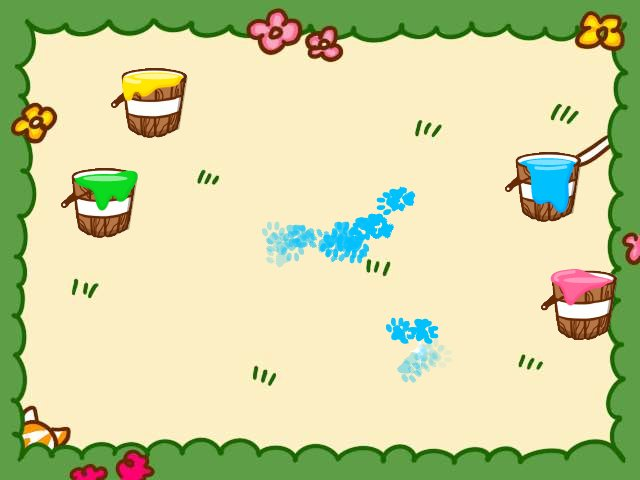
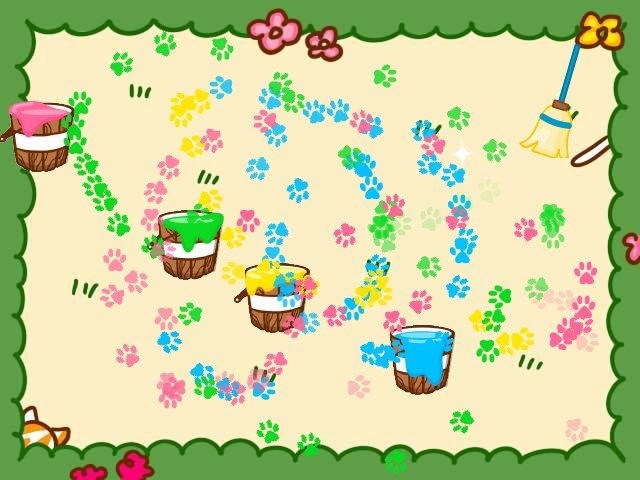
update

diff --git a/DRAWING/footstep_5_camera_sound.py b/DRAWING/footstep_5_camera_sound.py
@@ -5,7 +5,7 @@ import cv2 as cv
 import random
 from pygame.locals import *
 
-cap = cv.VideoCapture('6.mp4')
+cap = cv.VideoCapture(0)
 cap.set(3,640)
 cap.set(4,480)
 
@@ -13,7 +13,7 @@ cap.set(4,480)
 pygame.init()
 pygame.mixer.init()
 pygame.mixer.pre_init(44100,-16,2,512)
-screen = pygame.display.set_mode((640, 480),FULLSCREEN | HWSURFACE | DOUBLEBUF)
+screen = pygame.display.set_mode((640, 480), DOUBLEBUF)
 clock = pygame.time.Clock()
 
 #blit with opacity
@@ -56,6 +56,7 @@ def drawObject(animal, XY, opacity):
 #blink=pygame.image.load('blink.png')
 #blink_opacity=100
 flag=1
+broom_flag=0
 
 # PAINT IMG
 guide1=pygame.transform.scale(imgLoad('guide_1'),(500,120))
@@ -126,7 +127,7 @@ bucket_s=(380,300)
 skyblue=(450,300)
 pink=(650,300)
 bucket_p=(580,300)
-broom=(750,100)
+broom=(550,100)
 
 distance=40
 
@@ -166,12 +167,12 @@ while not done:
         continue
 
     img = cv.resize(img, (640,480))
-    points = detect.hough_detect(img)
+    points = pygame.mouse.get_pos()
     
     #cv.imshow('result', img)
     # if person head is found
     if type(points) is tuple:
-        pos_now = (points[0]*1.3-60, points[1]*1.3-60)
+        pos_now = points
 
     # if user goes out of the screen, change animal
     if not(0 < pos_now[0] < 640 and 0 < pos_now[1] < 480): 
@@ -183,34 +184,50 @@ while not done:
         # check if user collided to buckets
     if check_collision(bucket_y,pos_now,distance):
         spill_y+=1
-    elif check_collision(bucket_g,pos_now,distance):
-        spill_g+=1
-    elif check_collision(bucket_s,pos_now,distance):
-        spill_s+=1
-    elif check_collision(bucket_p,pos_now,distance):
-        spill_p+=1
-
-        # check if user collided to spilled paint
-    if check_collision(yellow,pos_now,distance):
         if spill_y!=0:
             color_now='_y'
             time=1
             opacity_now=300
-    elif check_collision(green,pos_now,distance):
+    elif check_collision(bucket_g,pos_now,distance):
+        spill_g+=1
         if spill_g!=0:
             color_now='_g'
             time=1
             opacity_now=300
-    elif check_collision(skyblue,pos_now,distance):
+    elif check_collision(bucket_s,pos_now,distance):
+        spill_s+=1
         if spill_s!=0:
             color_now='_s'
             time=1
             opacity_now=300
-    elif check_collision(pink,pos_now,distance):
+    elif check_collision(bucket_p,pos_now,distance):
+        spill_p+=1
         if spill_p!=0:
             color_now='_p'
             time=1
             opacity_now=300
+
+##        # check if user collided to spilled paint
+##    if check_collision(yellow,pos_now,distance):
+##        if spill_y!=0:
+##            color_now='_y'
+##            time=1
+##            opacity_now=300
+##    elif check_collision(green,pos_now,distance):
+##        if spill_g!=0:
+##            color_now='_g'
+##            time=1
+##            opacity_now=300
+##    elif check_collision(skyblue,pos_now,distance):
+##        if spill_s!=0:
+##            color_now='_s'
+##            time=1
+##            opacity_now=300
+##    elif check_collision(pink,pos_now,distance):
+##        if spill_p!=0:
+##            color_now='_p'
+##            time=1
+##            opacity_now=300
     
     if time>0:
         time+=1
@@ -220,7 +237,8 @@ while not done:
             time=0
             
     # broom img
-    screen.blit(broom_1,(broom[0]-int(67/2),broom[1]-int(116/2)))
+    if broom_flag==0:
+        screen.blit(broom_1,(broom[0]-int(67/2),broom[1]-int(116/2)))
 
     # draw stand up/spilled paint bucket depending on 'spill_' bool
     if spill_y==0:#YELLO
@@ -233,8 +251,8 @@ while not done:
         spill_y+=1
         if spill_y>20:
             spill_y=0
-            X=random.randint(50,750)
-            Y=random.randint(50,550)
+            X=random.randint(50,600)
+            Y=random.randint(50,430)
             yellow=(X,Y)
             bucket_y=(yellow[0]-70,yellow[1])
     
@@ -248,8 +266,8 @@ while not done:
         spill_g+=1
         if spill_g>20:
             spill_g=0
-            X=random.randint(120,750)
-            Y=random.randint(120,550)
+            X=random.randint(50,600)
+            Y=random.randint(50,430)
             green=(X,Y)
             bucket_g=(green[0]-70,green[1])
     
@@ -263,8 +281,8 @@ while not done:
         spill_s+=1
         if spill_s>20:
             spill_s=0
-            X=random.randint(50,750)
-            Y=random.randint(50,550)
+            X=random.randint(50,600)
+            Y=random.randint(50,430)
             skyblue=(X,Y)
             bucket_s=(skyblue[0]-70,skyblue[1])
     
@@ -278,8 +296,8 @@ while not done:
         spill_p+=1
         if spill_p>20:
             spill_p=0
-            X=random.randint(50,750)
-            Y=random.randint(50,550)
+            X=random.randint(50,600)
+            Y=random.randint(50,430)
             pink=(X,Y)
             bucket_p=(pink[0]-70,pink[1])
 
@@ -292,6 +310,10 @@ while not done:
         sfx1 = pygame.mixer.Sound('sound/erase.ogg')
         sfx1.set_volume(0.5)
         sfx1.play()
+        broom_flag=1
+    else:
+        broom_flag=0
+        
         
 
     # user img
